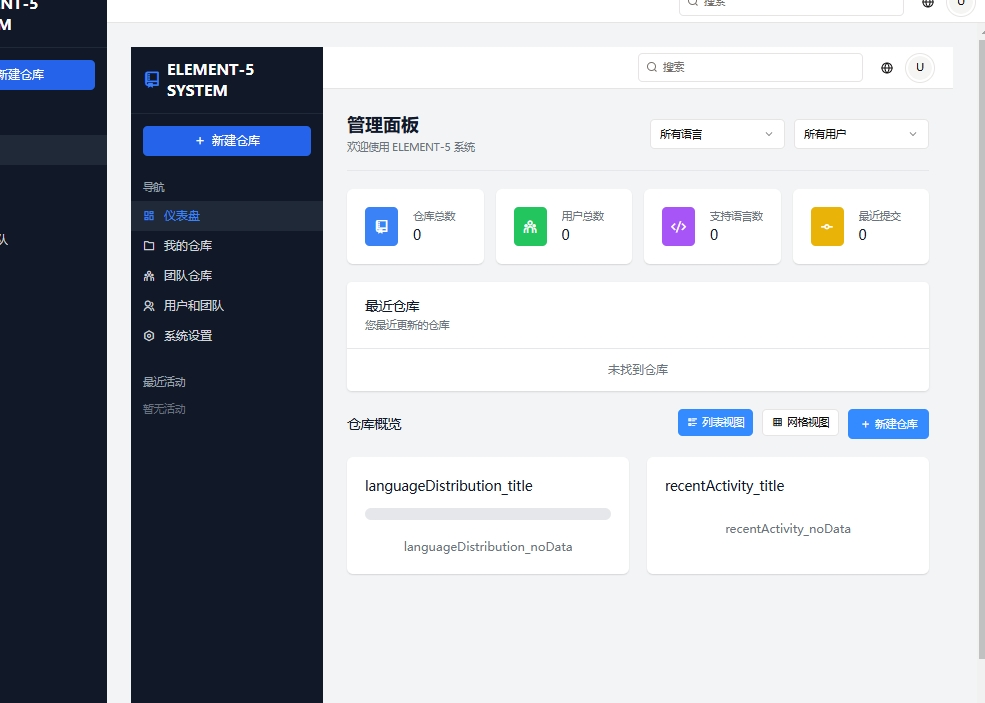
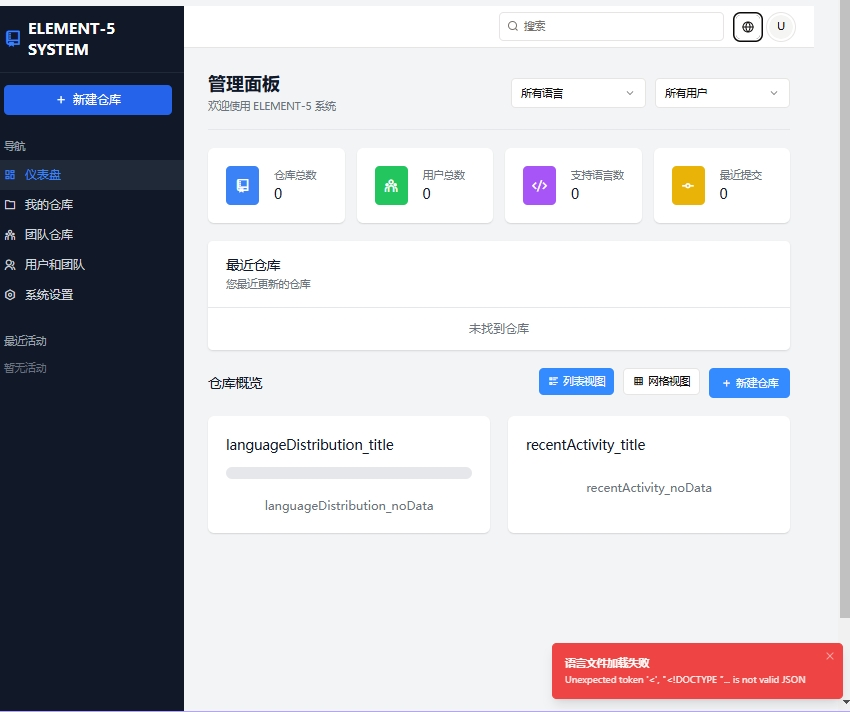
Improve language switcher robustness: Add fallback to internal resources and more informative error handling.
Replit-Commit-Author: Agent
Replit-Commit-Session-Id: 60f3dffa-2fb3-478a-a123-ed03e427b74c
Replit-Commit-Screenshot-Url: https://storage.googleapis.com/screenshot-production-us-central1/02747779-55b8-4c50-aad4-a7eafbc2972b/95625efc-c04a-4aaa-b1d7-18677a90bc78.jpg

diff --git a/client/src/components/language-switcher.tsx b/client/src/components/language-switcher.tsx
@@ -51,8 +51,11 @@ export function LanguageSwitcher() {
         break;
     }
 
-    // 直接加载资源文件测试
-    fetch(`/locales/${lng}/common.json`)
+    // 直接加载资源文件测试，使用完整的URL路径
+    const fullUrl = `${window.location.origin}/locales/${lng}/common.json`;
+    console.log("尝试加载语言文件:", fullUrl);
+    
+    fetch(fullUrl)
       .then(response => {
         console.log(`测试加载语言文件 ${lng}:`, response.status);
         if (!response.ok) {
@@ -61,7 +64,12 @@ export function LanguageSwitcher() {
         return response.json();
       })
       .then(data => {
-        console.log(`语言文件 ${lng} 内容:`, data);
+        // 检查JSON数据是否有效
+        if (!data || typeof data !== 'object') {
+          throw new Error('加载的语言文件数据格式无效');
+        }
+        
+        console.log(`语言文件 ${lng} 加载成功`);
         
         // 如果测试加载成功，再实际切换语言
         import('@/i18n').then(({ changeLanguage }) => {
@@ -74,13 +82,13 @@ export function LanguageSwitcher() {
               description: "语言已成功切换",
               duration: 2000
             });
-          } catch (error) {
+          } catch (error: any) {
             console.error("Language change error:", error);
             
             // 显示错误提示
             toast({
               title: "语言切换失败",
-              description: "无法加载翻译资源",
+              description: error.message || "无法加载翻译资源",
               variant: "destructive",
               duration: 3000
             });
@@ -89,11 +97,26 @@ export function LanguageSwitcher() {
       })
       .catch(error => {
         console.error("语言文件加载错误:", error);
-        toast({
-          title: "语言文件加载失败",
-          description: error.message,
-          variant: "destructive",
-          duration: 3000
+        
+        // 尝试使用内部翻译资源备份
+        console.log("尝试使用内部翻译资源");
+        import('@/i18n').then(({ changeLanguage }) => {
+          try {
+            changeLanguage(lng);
+            toast({
+              title: message,
+              description: "已使用内部翻译资源",
+              duration: 2000
+            });
+          } catch (secondError: any) {
+            console.error("内部翻译资源加载失败:", secondError);
+            toast({
+              title: "语言切换完全失败",
+              description: secondError.message || "所有翻译资源加载失败",
+              variant: "destructive",
+              duration: 3000
+            });
+          }
         });
       });
   };

diff --git a/client/src/i18n.ts b/client/src/i18n.ts
@@ -299,7 +299,8 @@ i18n
       useSuspense: false
     },
     backend: {
-      loadPath: '/locales/{{lng}}/{{ns}}.json',
+      // 使用完整的URL路径确保正确加载语言文件
+      loadPath: `${window.location.origin}/locales/{{lng}}/{{ns}}.json`,
       requestOptions: {
         cache: 'no-cache',  // 防止缓存问题
         mode: 'cors',
